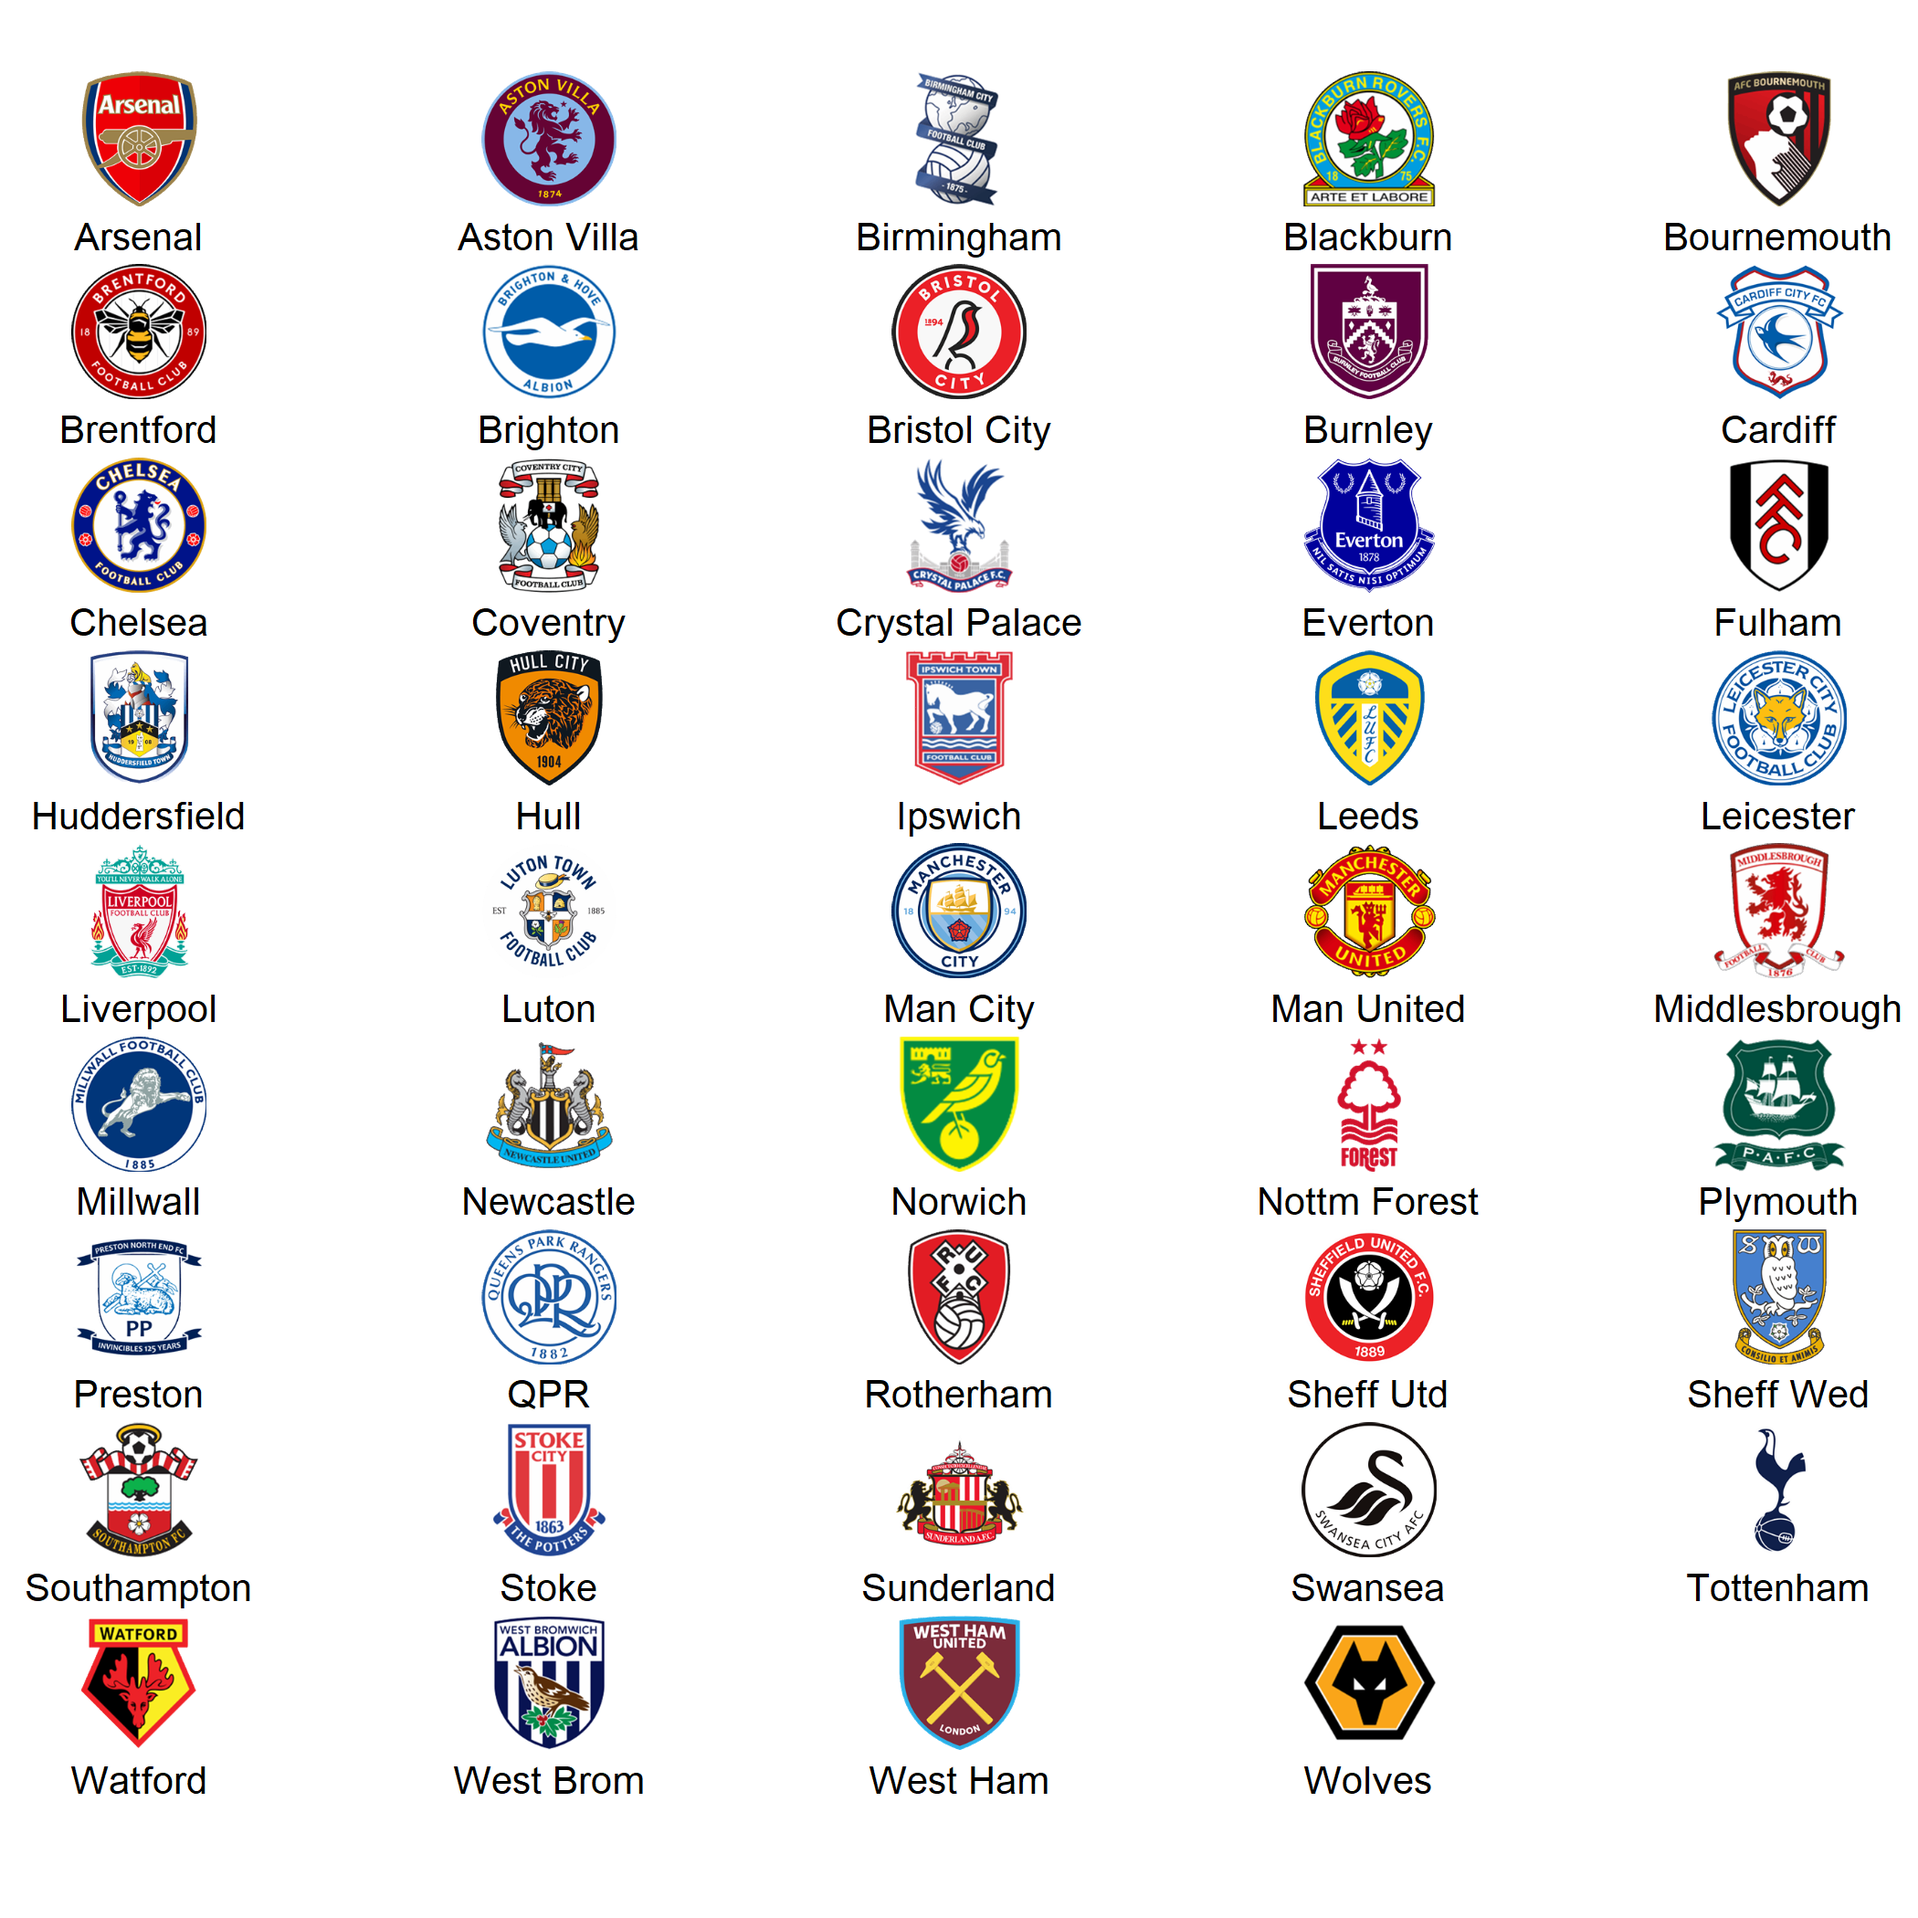
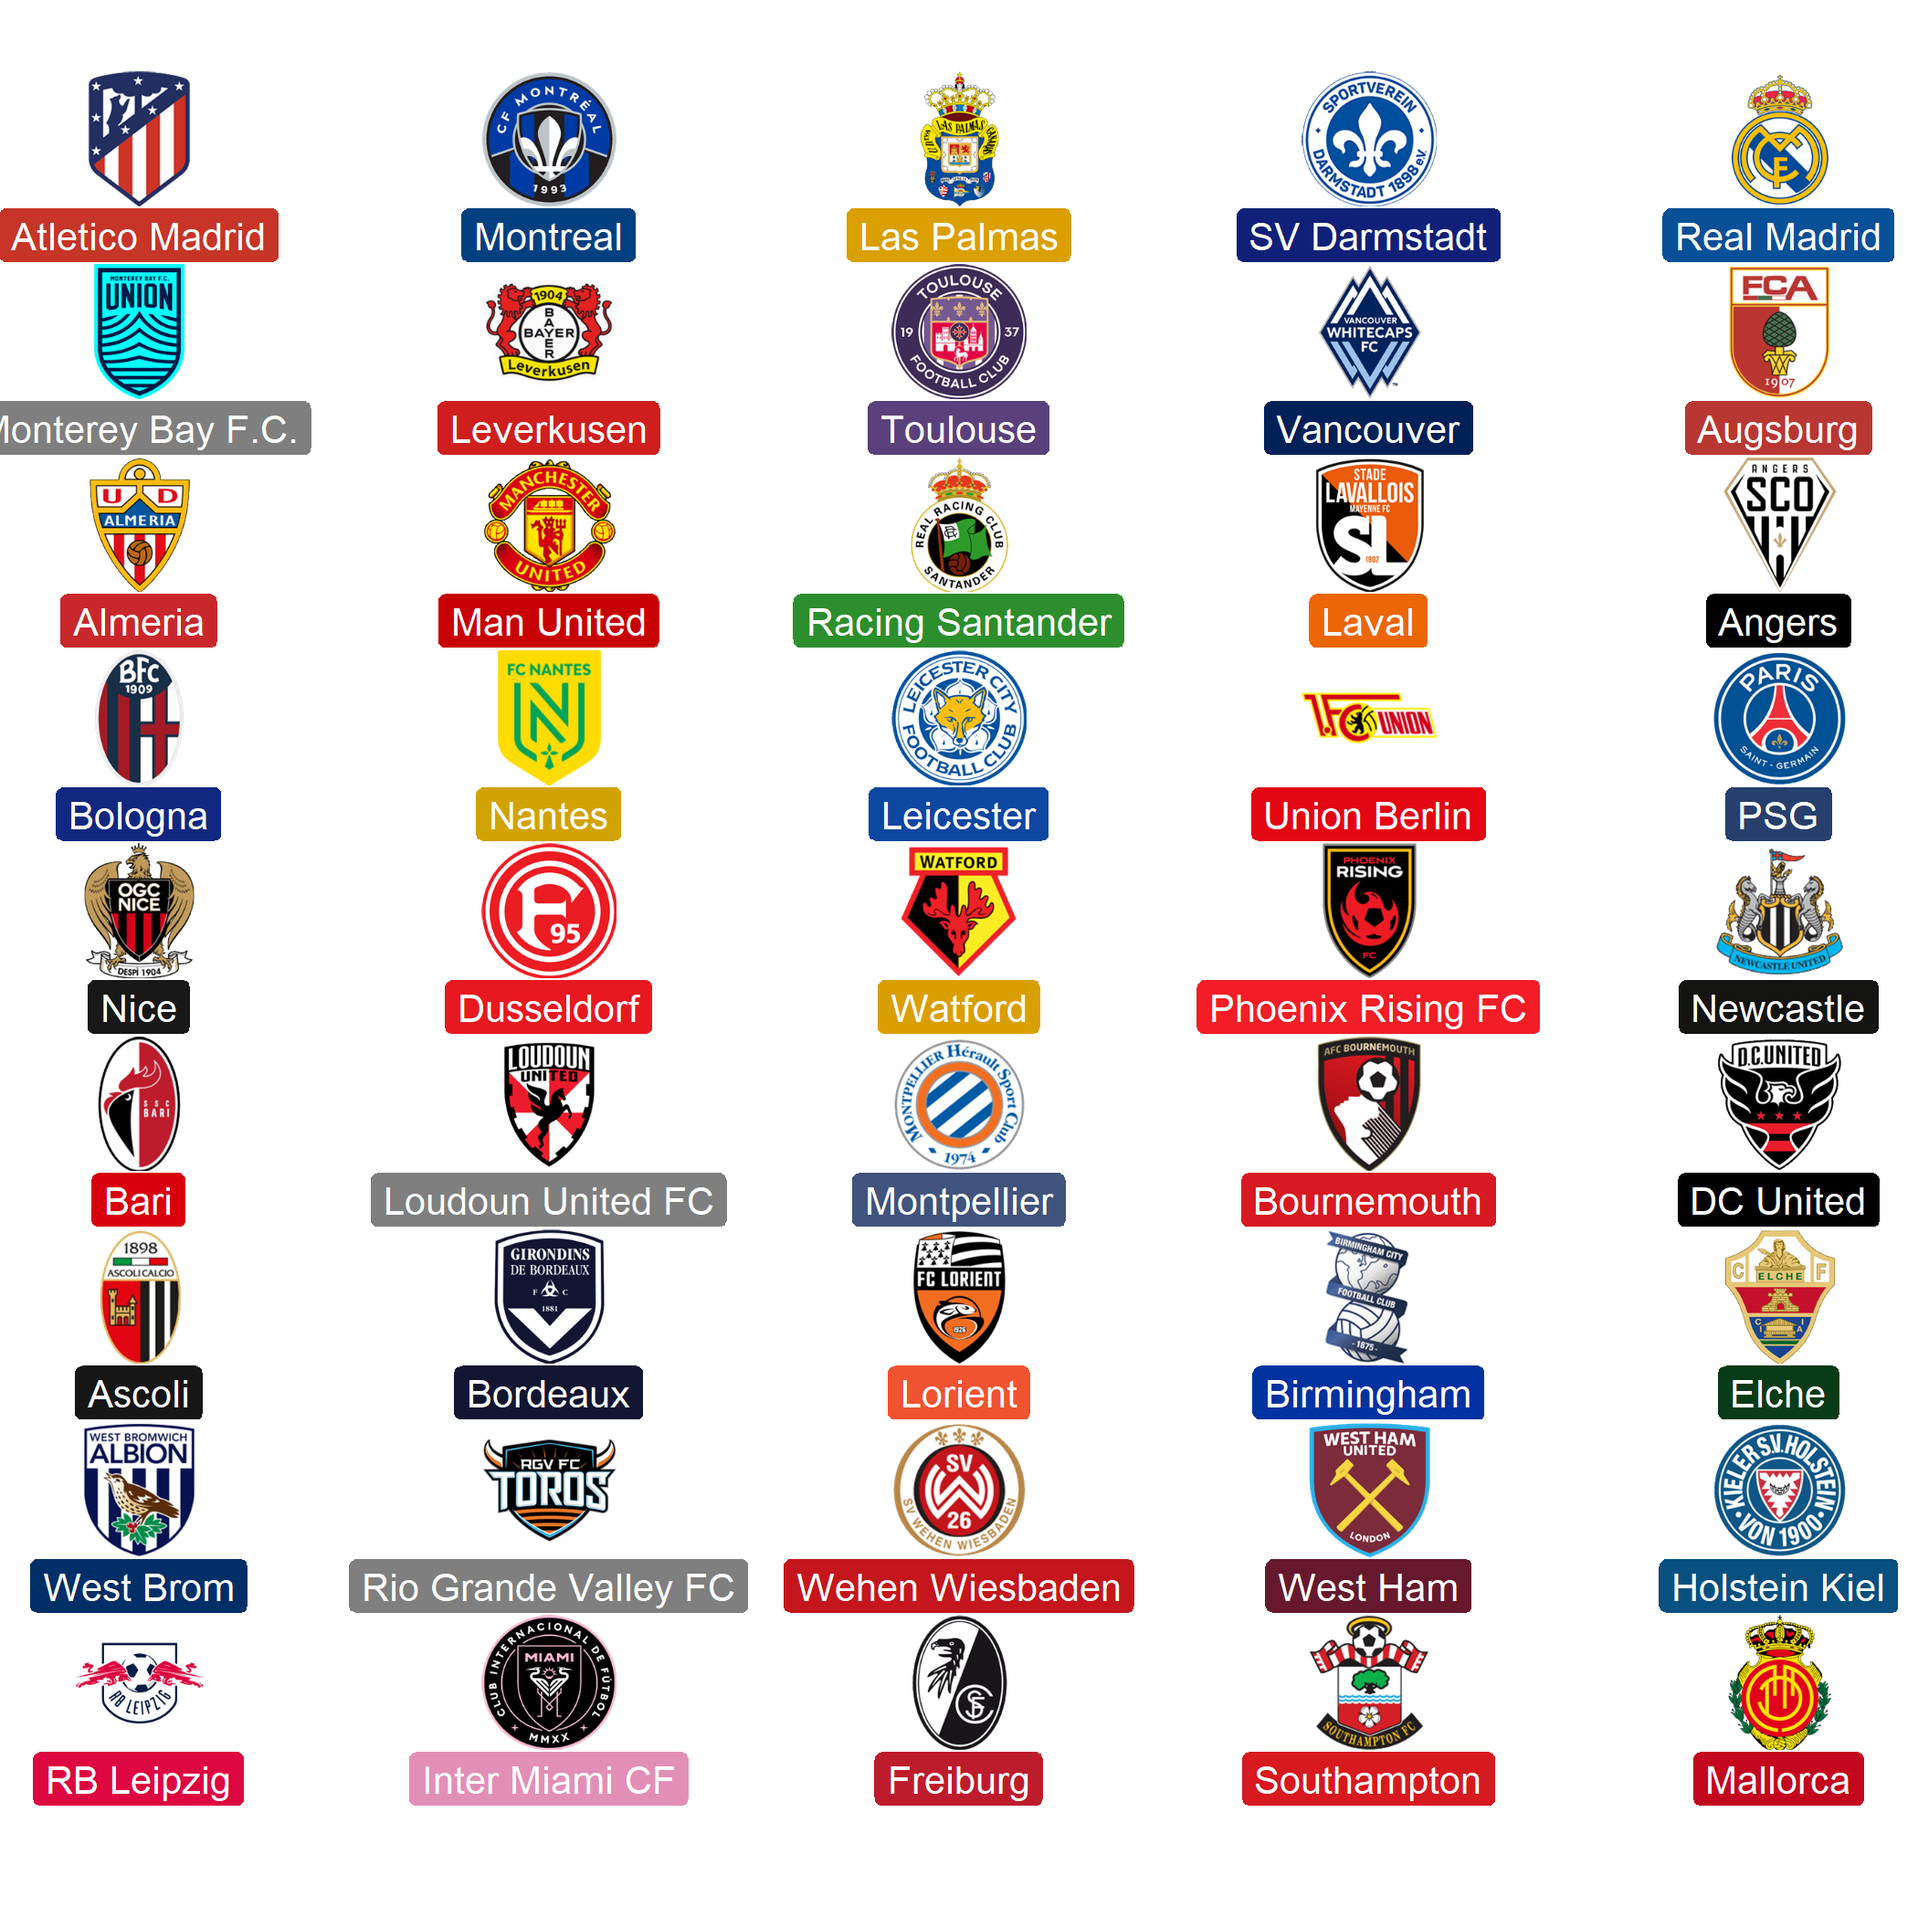
imports + update readme

diff --git a/README.md b/README.md
@@ -36,13 +36,14 @@ pak::pak("tonyelhabr/soccerplotR")
 library(soccerplotR)
 library(ggplot2)
 
-COUNTRY <- 'ENG'
-team_names <- soccerplotR::valid_team_names(country = COUNTRY)
+team_names <- unlist(unname(soccerplotR::valid_team_names()))
+set.seed(42)
+sampled_team_names <- sample(team_names, size = 45)
 
 df <- data.frame(
-  a = c(rep(1:5, 8), c(1, 2, 3, 4)),
-  b = sort(c(rep(1:8, 5), c(0, 0, 0, 0)), decreasing = TRUE),
-  team_name = team_names
+  a = rep(1:5, 9),
+  b = sort(rep(0:8, 5), decreasing = TRUE),
+  team_name = sampled_team_names
 )
 
 ggplot(df) +
@@ -51,21 +52,21 @@ ggplot(df) +
     y = b
   ) +
   geom_soccer_logos(
-    country = COUNTRY,
     aes(
       team_name = team_name
     ), 
     width = 0.075
   ) +
-  geom_text(
+  geom_label(
     aes(
-      label = team_name
+      label = team_name,
+      fill = team_name
     ),
-    size = 10 / ggplot2::.pt,
+    color = 'white',
+    size = 10 / .pt,
     nudge_y = -0.5
   ) +
-  # scale_color_soccer(type = 'secondary')+
-  # scale_fill_soccer(type = 'primary')+
+  scale_fill_soccer(type = 'primary') +
   theme_void() +
   theme(
     plot.margin = margin(15, 15, 15, 15, 'pt')
